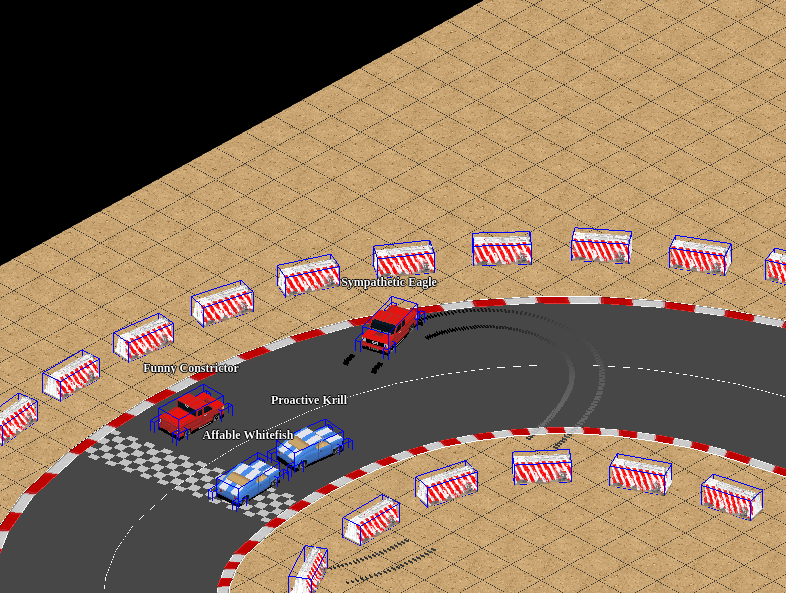
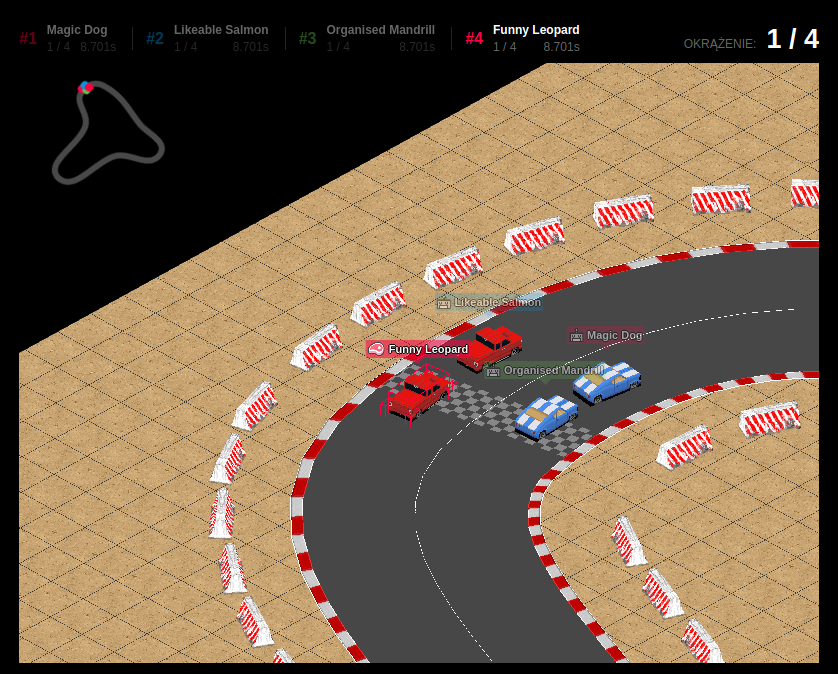
update screens

diff --git a/src/network/shared/room/RoomConfig.js b/src/network/shared/room/RoomConfig.js
@@ -2,7 +2,7 @@ export default class RoomConfig {
   constructor(
     {
       laps = 4,
-      countdown = 4,
+      countdown = 10,
       playersLimit = 5,
       spawnBotsBeforeStart = true,
     } = {},

diff --git a/README.md b/README.md
@@ -5,6 +5,8 @@ multiplayer 2.5D isometric racing game written in WebGL 2.x
 
 ## Gameplay
 ![Screen](/doc/screens/screen.png) <br />
+![Screen 2](/doc/screens/screen-2.png) <br />
+
 ![GIF](/doc/screens/gameplay.gif)
 
 ## Goals
